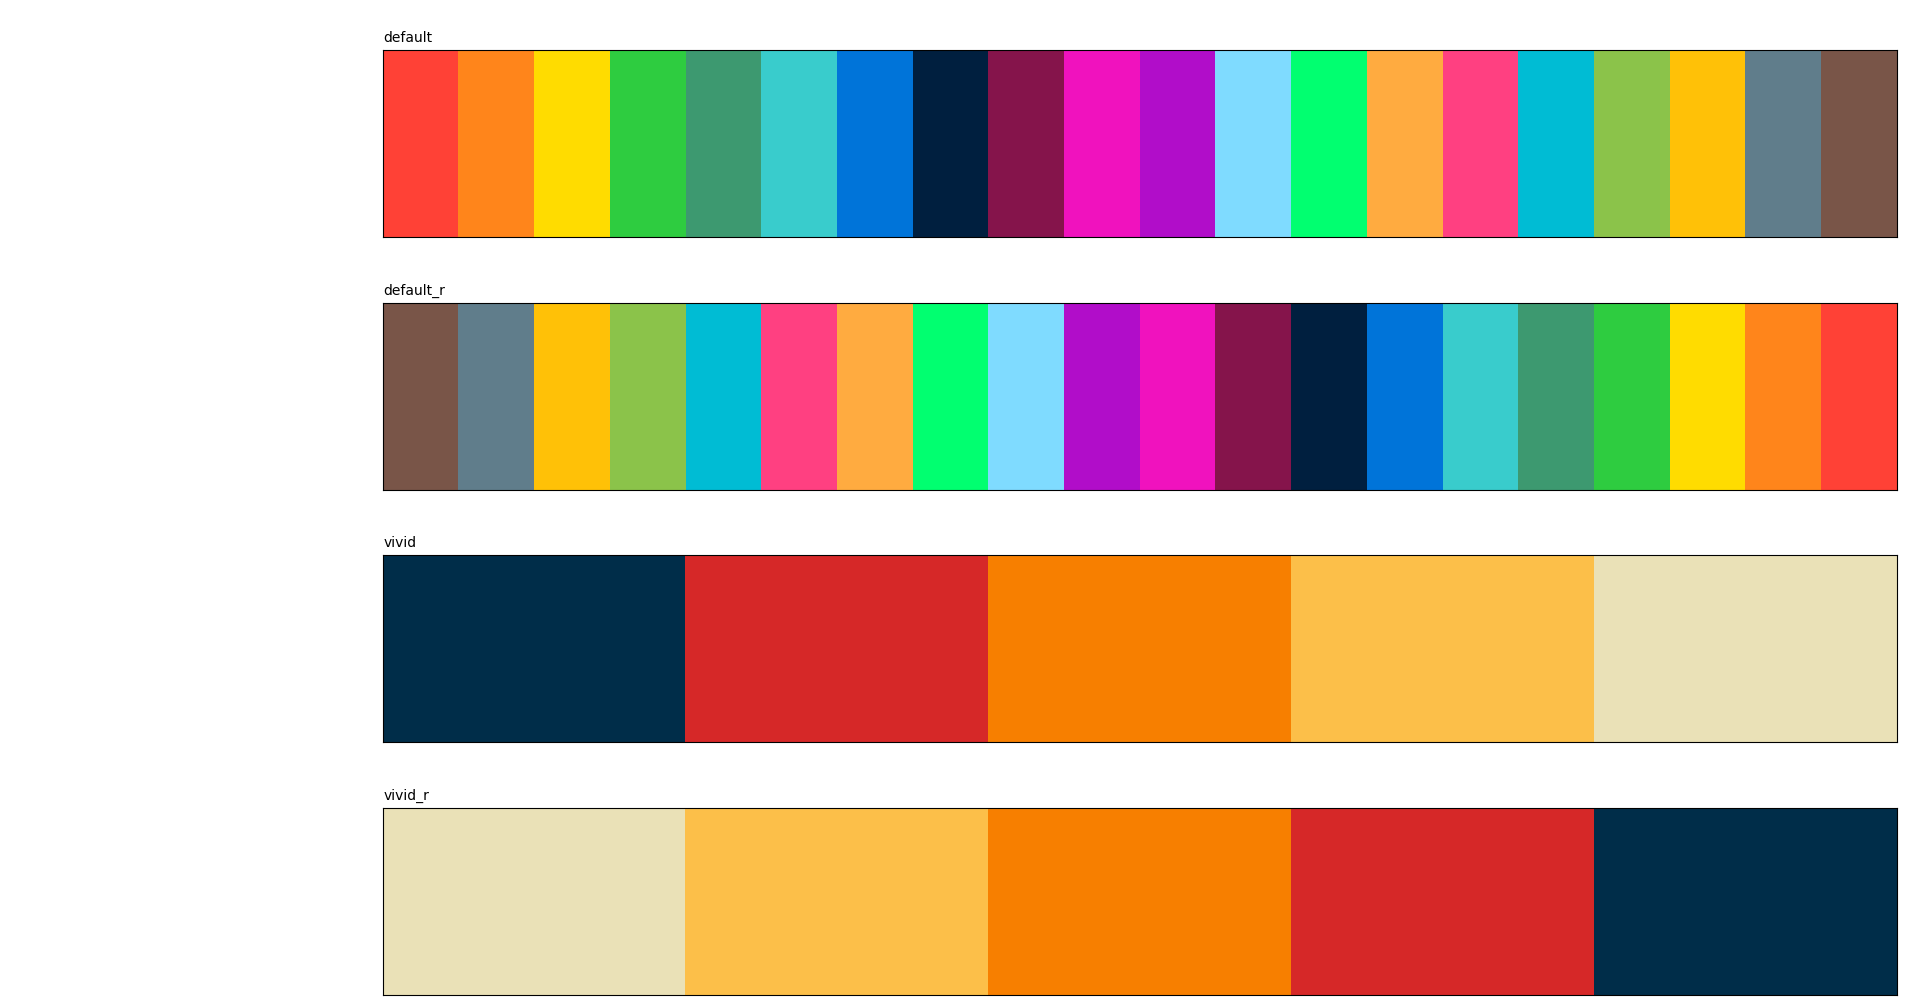
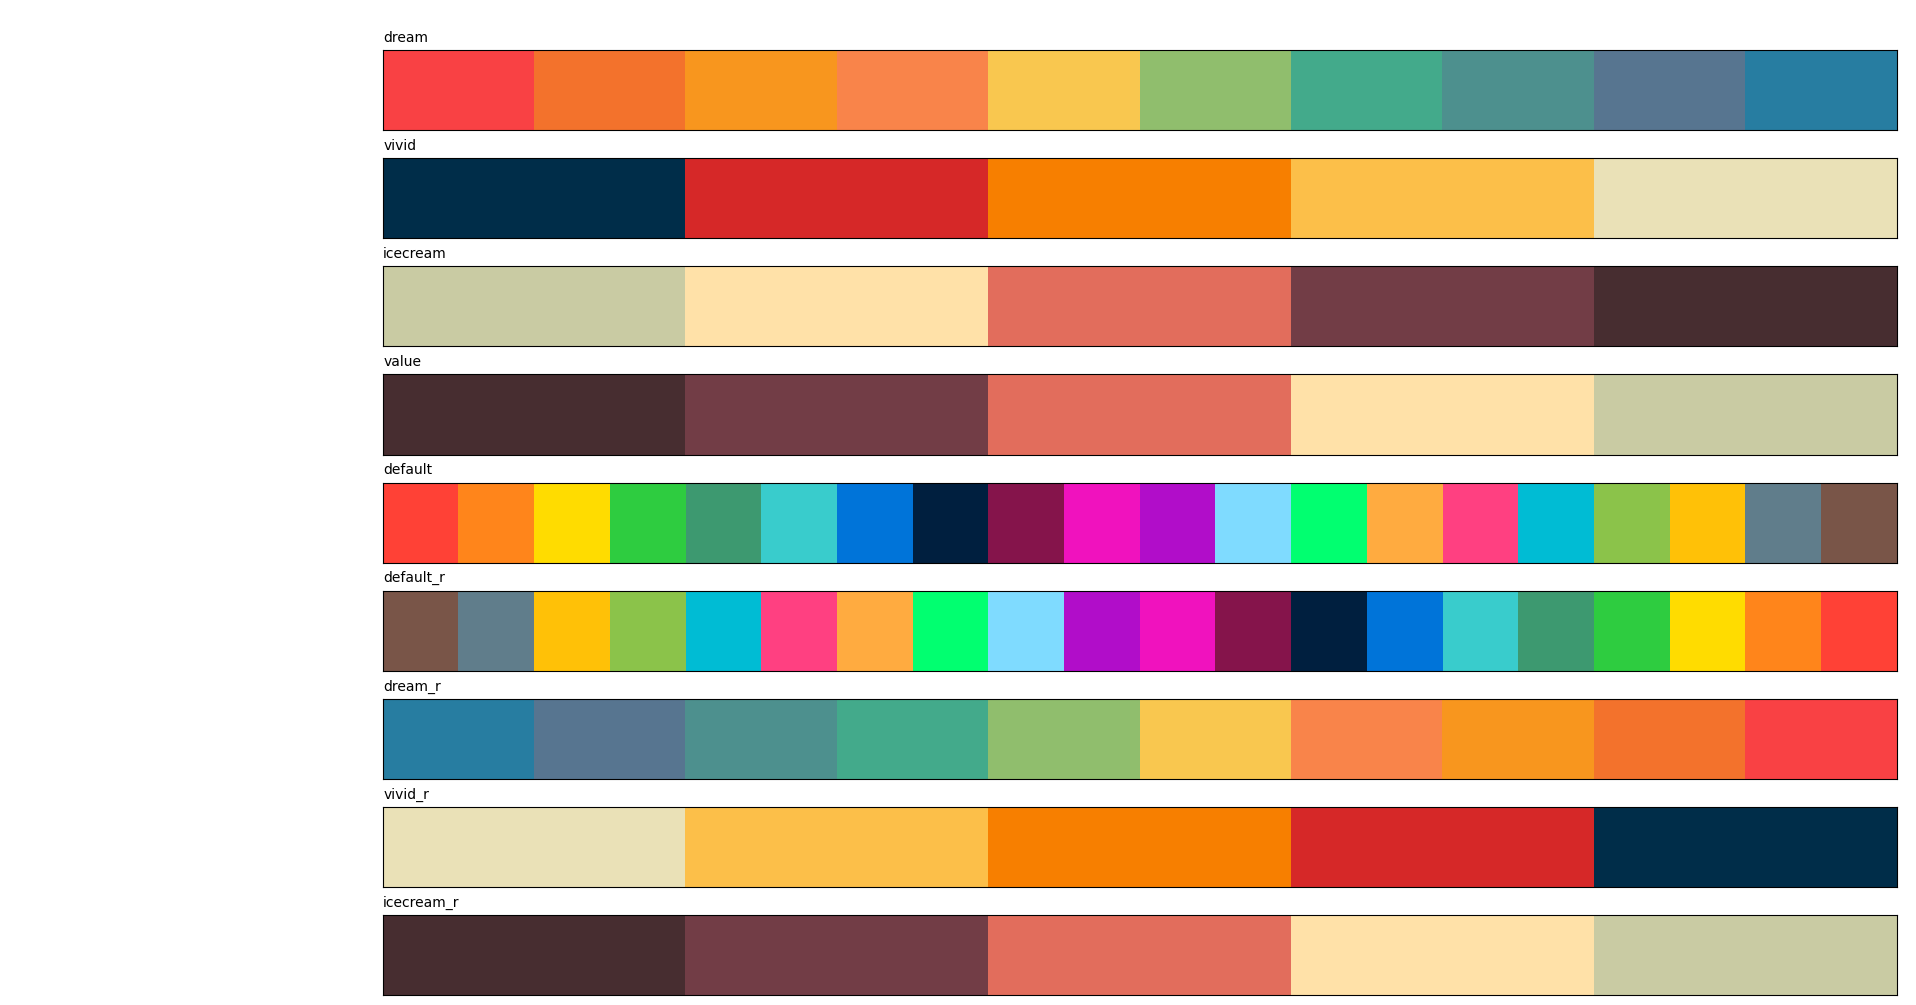
autoimports

diff --git a/colorengine/colormaps/__init__.py b/colorengine/colormaps/__init__.py
@@ -1,5 +1,26 @@
-from .discrete_defaults import cmap as default
-from .discrete_defaults import cmap_r as default_r
+import importlib
 
-from .vivid import cmap as vivid
-from .vivid import cmap_r as vivid_r
+def auto_import_colormaps():
+    bindings = {}
+    modules_to_import = [
+        'discrete_defaults',
+        'dream',
+        'vivid',
+        'icecream',
+    ]
+
+    for module_name in modules_to_import:
+        module = importlib.import_module(f'colorengine.colormaps.{module_name}')
+
+        if module_name == 'discrete_defaults':
+            bindings['default'] = module.cmap
+            bindings['default_r'] = module.cmap_r
+        else:
+            bindings[module_name] = module.cmap
+            bindings[f'{module_name}_r'] = module.cmap_r
+
+    return bindings
+
+colormaps = auto_import_colormaps()
+for key, value in colormaps.items():
+    globals()[key] = value

diff --git a/figures/create_maps.py b/figures/create_maps.py
@@ -1,4 +1,5 @@
 import proplot as plt
+
 import numpy as np
 from colorengine.colormaps import *  # Import all your colormaps
 
